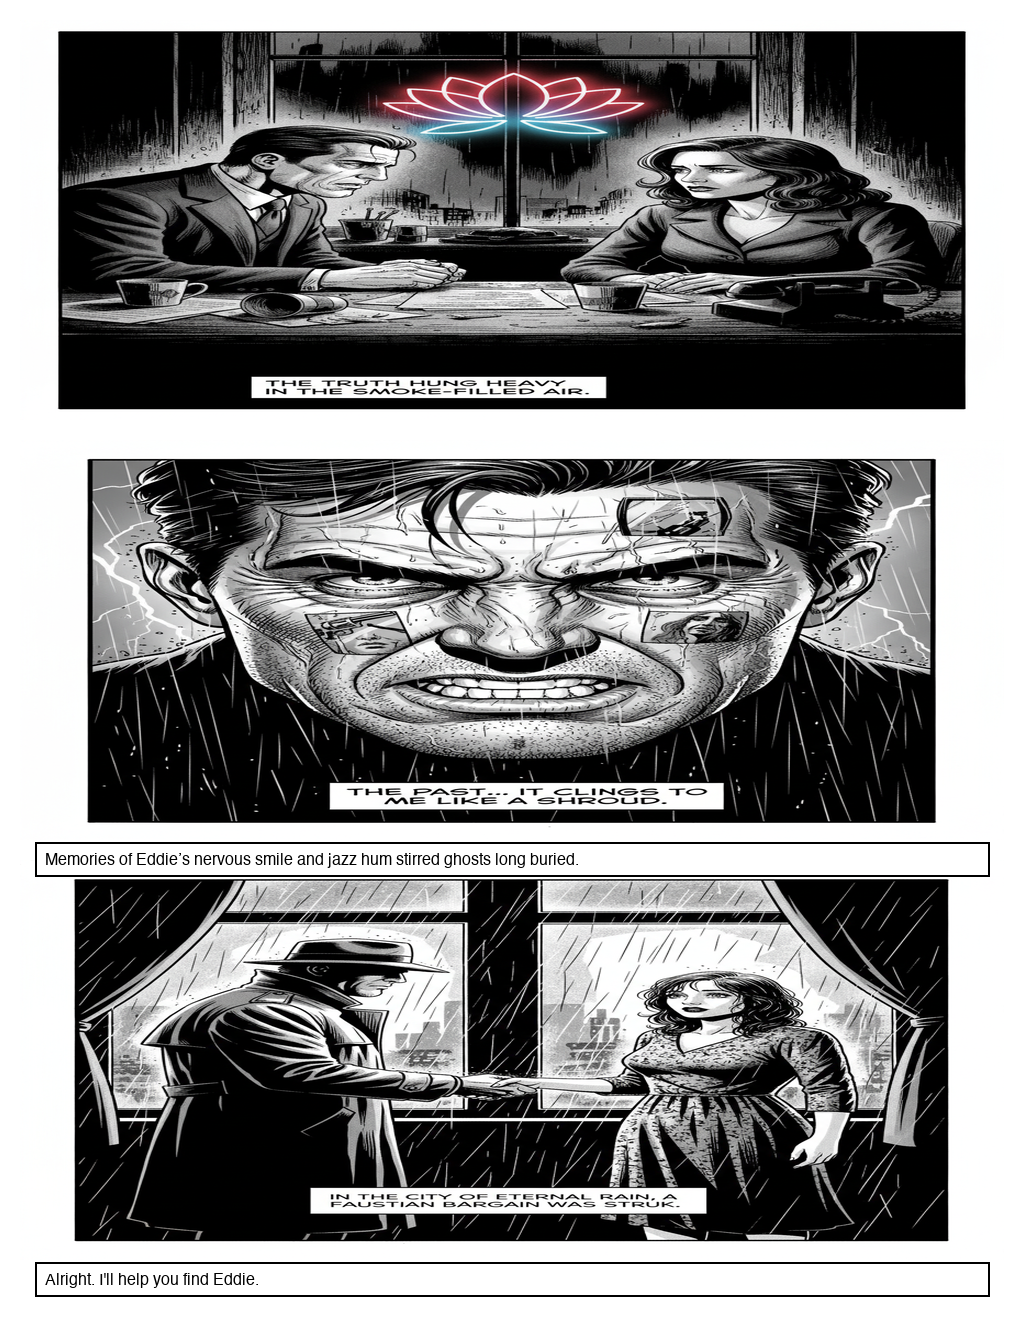
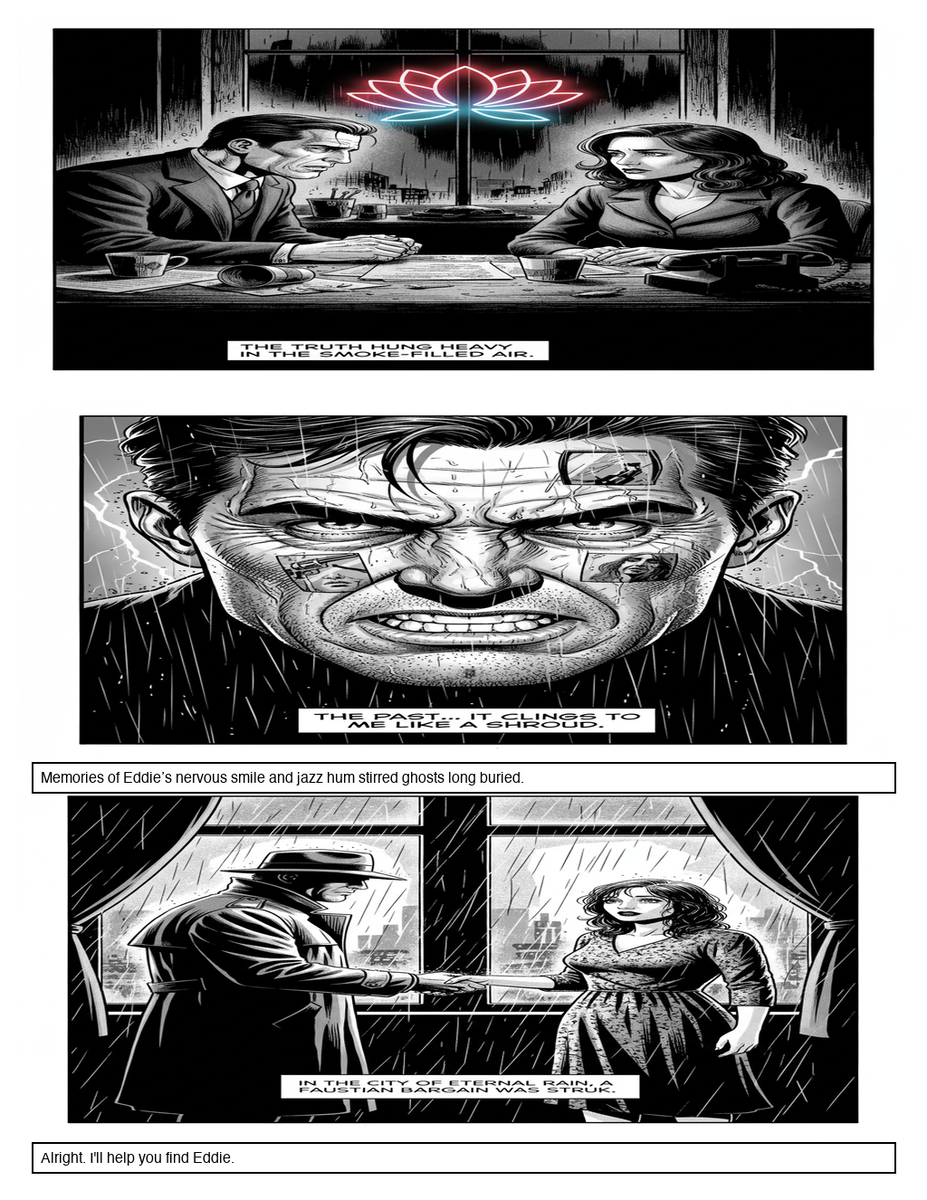
fix: reduce image sizes

diff --git a/landing/index.html b/landing/index.html
@@ -93,15 +93,15 @@
             <div class="hero-visual">
                 <div class="carousel-preview">
                     <div class="carousel-panel active">
-                        <img src="assets/panel1.png" alt="Blood Red Lotus Panel 1" class="panel-image">
+                        <img src="assets/panel1.webp" alt="Blood Red Lotus Panel 1" class="panel-image">
                         <div class="panel-caption">"The city never sleeps, only shivers."</div>
                     </div>
                     <div class="carousel-panel">
-                        <img src="assets/panel2.png" alt="Blood Red Lotus Panel 2" class="panel-image">
+                        <img src="assets/panel2.webp" alt="Blood Red Lotus Panel 2" class="panel-image">
                         <div class="panel-caption">"Jack, it's Eddie. He's missing."</div>
                     </div>
                     <div class="carousel-panel">
-                        <img src="assets/panel3.png" alt="Blood Red Lotus Panel 3" class="panel-image">
+                        <img src="assets/panel3.webp" alt="Blood Red Lotus Panel 3" class="panel-image">
                         <div class="panel-caption">"Rain-soaked streets of New Harbor."</div>
                     </div>
                 </div>
@@ -293,7 +293,7 @@
                 <div class="showcase-panels">
                     <div class="showcase-panel">
                         <div class="panel-frame">
-                            <img src="assets/panel1.png" alt="Blood Red Lotus Panel 1">
+                            <img src="assets/panel1.webp" alt="Blood Red Lotus Panel 1">
                         </div>
                         <div class="panel-meta">
                             <span class="panel-label">Panel 1 - Establishing Shot</span>
@@ -302,7 +302,7 @@
                     </div>
                     <div class="showcase-panel">
                         <div class="panel-frame">
-                            <img src="assets/panel2.png" alt="Blood Red Lotus Panel 2">
+                            <img src="assets/panel2.webp" alt="Blood Red Lotus Panel 2">
                         </div>
                         <div class="panel-meta">
                             <span class="panel-label">Panel 4 - Character Consistency</span>
@@ -311,7 +311,7 @@
                     </div>
                     <div class="showcase-panel">
                         <div class="panel-frame">
-                            <img src="assets/panel3.png" alt="Blood Red Lotus Panel 3">
+                            <img src="assets/panel3.webp" alt="Blood Red Lotus Panel 3">
                         </div>
                         <div class="panel-meta">
                             <span class="panel-label">Panel 8 - Atmospheric Detail</span>

diff --git a/landing/styles.css b/landing/styles.css
@@ -674,7 +674,7 @@ body {
     width: 80px;
     height: 80px;
     background: linear-gradient(135deg, var(--primary) 0%, var(--primary-dark) 100%);
-    background-image: url('assets/jack.png');
+    background-image: url('assets/jack.webp');
     background-size: cover;
     background-position: center;
     border-radius: 50%;
@@ -685,7 +685,7 @@ body {
 .char-avatar.veronica {
     border-color: var(--accent);
     background: linear-gradient(135deg, var(--accent) 0%, #d97706 100%);
-    background-image: url('assets/veronica.png');
+    background-image: url('assets/veronica.webp');
     background-size: cover;
     background-position: center;
 }
@@ -693,7 +693,7 @@ body {
 .char-avatar.tommy {
     border-color: var(--text-muted);
     background: linear-gradient(135deg, #52525b 0%, #3f3f46 100%);
-    background-image: url('assets/tommy.png');
+    background-image: url('assets/tommy.webp');
     background-size: cover;
     background-position: center;
 }
@@ -743,12 +743,12 @@ body {
 
 .agent-avatar.jack {
     border-color: var(--primary);
-    background-image: url('assets/jack.png');
+    background-image: url('assets/jack.webp');
 }
 
 .agent-avatar.veronica {
     border-color: var(--accent);
-    background-image: url('assets/veronica.png');
+    background-image: url('assets/veronica.webp');
 }
 
 .thought-bubble {
@@ -940,12 +940,12 @@ body {
 
 .memory-avatar.jack {
     border-color: var(--primary);
-    background-image: url('assets/jack.png');
+    background-image: url('assets/jack.webp');
 }
 
 .memory-avatar.veronica {
     border-color: var(--accent);
-    background-image: url('assets/veronica.png');
+    background-image: url('assets/veronica.webp');
 }
 
 .memory-content {
@@ -1043,12 +1043,12 @@ body {
 }
 
 .node-avatar.jack {
-    background-image: url('assets/jack.png'), linear-gradient(135deg, var(--primary) 0%, var(--primary-dark) 100%);
+    background-image: url('assets/jack.webp'), linear-gradient(135deg, var(--primary) 0%, var(--primary-dark) 100%);
     border-color: var(--primary);
 }
 
 .node-avatar.veronica {
-    background-image: url('assets/veronica.png'), linear-gradient(135deg, var(--accent) 0%, #d97706 100%);
+    background-image: url('assets/veronica.webp'), linear-gradient(135deg, var(--accent) 0%, #d97706 100%);
     border-color: var(--accent);
 }
 
@@ -1155,12 +1155,12 @@ body {
 
 .dialogue-avatar.jack {
     border-color: var(--primary);
-    background-image: url('assets/jack.png');
+    background-image: url('assets/jack.webp');
 }
 
 .dialogue-avatar.veronica {
     border-color: var(--accent);
-    background-image: url('assets/veronica.png');
+    background-image: url('assets/veronica.webp');
 }
 
 .dialogue-bubble {

diff --git a/cinema/agents/character/crew.py b/cinema/agents/character/crew.py
@@ -55,6 +55,16 @@ IMPORTANT:
 This structure is essential for tracking your decisions and maintaining continuity.
 """
 
+CHARACTER_BACKSTORY_SUFFIX = """
+### Instructions must abide by
+- Stay in character based on your role, backstory, and motivations
+- React authentically to other characters' actions and dialogue
+- Use your skills and knowledge appropriately
+- Consider your relationships and past interactions
+- Respond to stress according to your personality
+- Work toward your character's goals while interacting naturally
+"""
+
 class CharacterAgentBuilder:
     """Builder for creating a CrewAI Agent from a Character with optional context"""
     
@@ -149,6 +159,8 @@ class CharacterAgentBuilder:
             backstory_parts.append("\n\nAdditional Context:")
             for ctx in self._additional_context:
                 backstory_parts.append(ctx)
+
+        backstory_parts.append(f"\n {CHARACTER_BACKSTORY_SUFFIX} \n")
 
         return "\n".join(backstory_parts)
     

diff --git a/cinema/registry.py b/cinema/registry.py
@@ -273,7 +273,8 @@ OpenAiHerd = (
         LLMImageGenIntent,
         ModelConfig(
             # name="gpt-5-mini-2025-08-07",
-            name="gemini/gemini-2.5-flash-image-preview",
+            # name="gemini/gemini-2.5-flash-image-preview",
+            name="imagen-3.0-generate-002",
             loader=LLM,
             is_hosted=False,
         ),
